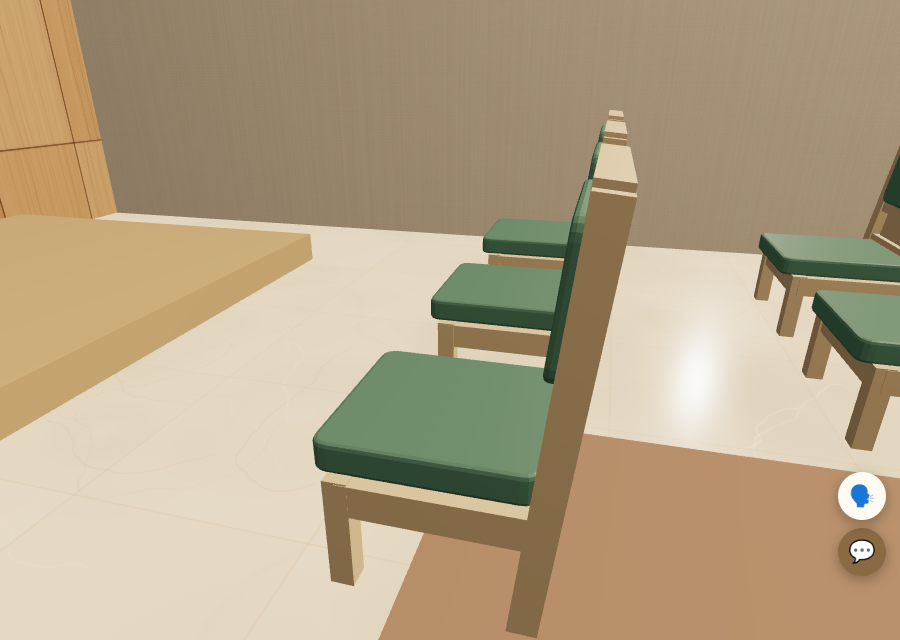
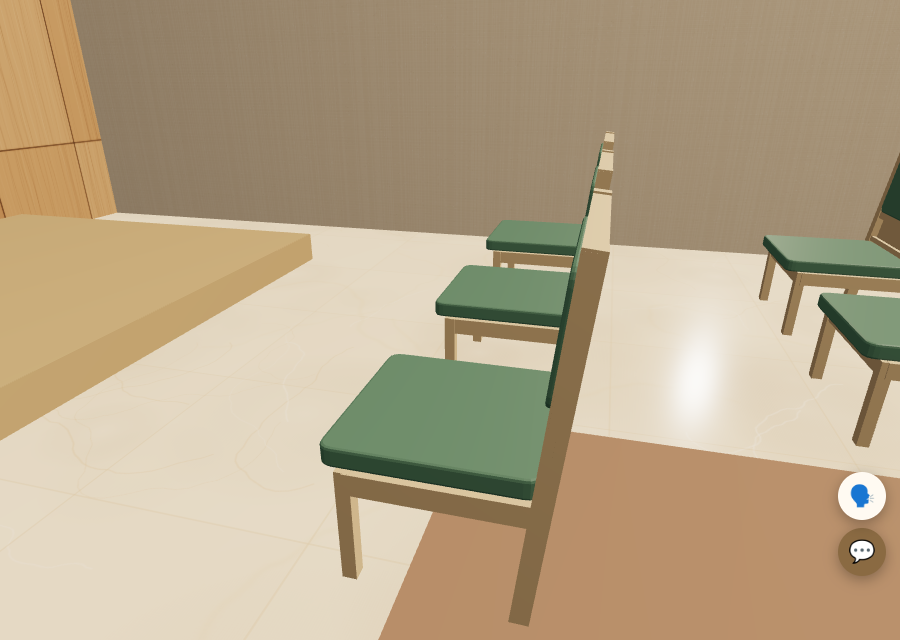
소예배실 의자 날씬하게 (사용자 "투박하다"): 다리·기둥·띠·방석·등판을 얇게, 등받이 0.47m로 낮춤
Claude-Session: https://claude.ai/code/session_01Vz1QJf3UdmpjXu7m5EnhFF

Changed region(s): [[0.3422, 0.1562, 0.7156, 1.0], [0.84, 0.2188, 1.0, 0.7188], [0.3733, 0.5938, 0.4044, 0.6562]]

diff --git a/index.html b/index.html
@@ -2003,19 +2003,20 @@
           const bx = (w, h, d, x, y, z) => new THREE.BoxGeometry(w, h, d).translate(x, y + h / 2, z);
           const rr = (w, d, r) => { const sh = new THREE.Shape(), a = -w / 2, b = -d / 2; sh.moveTo(a + r, b); sh.lineTo(a + w - r, b); sh.quadraticCurveTo(a + w, b, a + w, b + r); sh.lineTo(a + w, b + d - r); sh.quadraticCurveTo(a + w, b + d, a + w - r, b + d);
             sh.lineTo(a + r, b + d); sh.quadraticCurveTo(a, b + d, a, b + d - r); sh.lineTo(a, b + r); sh.quadraticCurveTo(a, b, a + r, b); return sh; };
-          const pad = (w, h, d) => { const g = new THREE.ExtrudeGeometry(rr(w - 0.012, d - 0.012, 0.018), { depth: h - 0.012, bevelEnabled: true, bevelThickness: 0.006, bevelSize: 0.006, bevelSegments: 2, curveSegments: 4 }); g.rotateX(-Math.PI / 2); g.translate(0, 0.006, 0); return g; };   // 둥근 모서리 방석 (바닥 y 0 ~ 위 h)
+          const pad = (w, h, d) => { const g = new THREE.ExtrudeGeometry(rr(w - 0.008, d - 0.008, 0.016), { depth: h - 0.008, bevelEnabled: true, bevelThickness: 0.004, bevelSize: 0.004, bevelSegments: 2, curveSegments: 4 }); g.rotateX(-Math.PI / 2); g.translate(0, 0.004, 0); return g; };   // 둥근 모서리 방석 (바닥 y 0 ~ 위 h)
+          // 사용자 "투박하다" → 사진처럼 날씬하게: 다리 2cm · 띠 3cm × 1.4cm · 방석 2.8cm · 등판 1.8cm, 등받이 윗면 0.47m
           const TILT = -0.1, W = [], G = [];
           [-1, 1].forEach((sx) => {
-            W.push(bx(0.032, 0.165, 0.032, sx * 0.135, 0, 0.125));                                                   // 앞다리
-            W.push(new THREE.BoxGeometry(0.034, 0.52, 0.036).translate(0, 0.26, 0).rotateX(TILT).translate(sx * 0.152, 0, -0.105));   // 뒷다리 겸 등받이 기둥 (뒤로 기움)
-            W.push(bx(0.024, 0.045, 0.24, sx * 0.14, 0.118, 0.005));                                                  // 옆 띠
+            W.push(bx(0.02, 0.172, 0.02, sx * 0.13, 0, 0.12));                                                       // 앞다리
+            W.push(new THREE.BoxGeometry(0.022, 0.47, 0.024).translate(0, 0.235, 0).rotateX(TILT).translate(sx * 0.145, 0, -0.1));   // 뒷다리 겸 등받이 기둥 (뒤로 기움)
+            W.push(bx(0.014, 0.03, 0.23, sx * 0.135, 0.142, 0.005));                                                  // 옆 띠
           });
-          W.push(bx(0.27, 0.045, 0.024, 0, 0.118, 0.125), bx(0.27, 0.045, 0.024, 0, 0.118, -0.118));                 // 앞·뒤 띠
-          G.push(pad(0.27, 0.042, 0.28).translate(0, 0.163, 0.025));                                                 // 방석 (윗면 0.205)
+          W.push(bx(0.25, 0.03, 0.014, 0, 0.142, 0.12), bx(0.25, 0.03, 0.014, 0, 0.142, -0.115));                    // 앞·뒤 띠
+          G.push(pad(0.268, 0.028, 0.27).translate(0, 0.172, 0.02));                                                  // 방석 (윗면 0.20)
           // 등받이: 아래 띠 · 들어간 원목 판 · 가운데 띠 · 초록 등판 · 위 띠 → 뒤로 기울여 방석 뒤에 세움
-          const back = (g) => g.rotateX(TILT).translate(0, 0.205, -0.125);
-          [bx(0.27, 0.014, 0.03, 0, 0, 0), bx(0.25, 0.062, 0.012, 0, 0.014, -0.006), bx(0.27, 0.026, 0.03, 0, 0.076, 0), bx(0.3, 0.04, 0.036, 0, 0.282, 0)].forEach((g) => W.push(back(g)));
-          G.push(back(pad(0.25, 0.03, 0.18).rotateX(Math.PI / 2).translate(0, 0.192, 0)));
+          const back = (g) => g.rotateX(TILT).translate(0, 0.2, -0.12);
+          [bx(0.27, 0.012, 0.02, 0, 0, 0), bx(0.25, 0.05, 0.008, 0, 0.012, -0.004), bx(0.27, 0.018, 0.02, 0, 0.062, 0), bx(0.312, 0.026, 0.024, 0, 0.24, 0)].forEach((g) => W.push(back(g)));
+          G.push(back(pad(0.25, 0.018, 0.16).rotateX(Math.PI / 2).translate(0, 0.16, 0)));
           const woodG = mergeGeometries(W), padG = mergeGeometries(G); W.concat(G).forEach((g) => g.dispose());
           [-13.4, -12.65, -11.9, -11.15, -10.4].forEach((z) => {
             [-11.55, -11.05, -10.55, -8.7, -8.2, -7.7].forEach((x) => {                                                 // 강단(북쪽)을 바라봄, 앉으면 기도

diff --git a/docs/verification/2026-11-08/REPORT.md b/docs/verification/2026-11-08/REPORT.md
@@ -40,3 +40,8 @@
 - 화면 오류 없음
 - 앉을 자리 30개 모두 잡힘, 눌러서 앉으면 의자 자리에 정확히 앉고(거리 0) 기도 자세(눈 감음)
 - 사진: chapel-rows.png(소예배실 전체), chapel-close.png(앞에서 가까이), chapel-side.png(옆모습)
+
+## 이어서: "마음에 안 든다 — 투박하다(2번)" → 날씬하게
+- 앞다리 3.2cm → 2cm, 뒷기둥 3.4 × 3.6cm → 2.2 × 2.4cm, 띠 4.5 × 2.4cm → 3 × 1.4cm, 방석 4.2cm → 2.8cm, 등판 3cm → 1.8cm, 위 띠 4 × 3.6cm → 2.6 × 2.4cm, 둥근 모서리 6mm → 4mm
+- 등받이 윗면 0.527m → 0.47m (사진 비율에 가깝게), 앉는 높이 0.20m 그대로
+- 확인: 화면 오류 없음, 앉을 자리 30개, 눌러서 앉으면 정확히 앉고 기도 자세. 사진(덮어씀): chapel-rows.png, chapel-close.png, chapel-side.png
